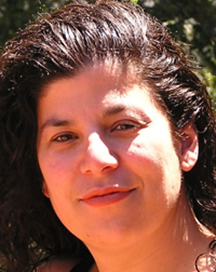
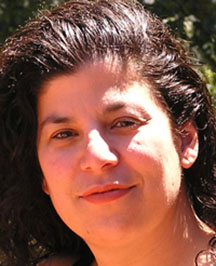
add 'speakers' page with bios

diff --git a/app/assets/stylesheets/_modules.scss b/app/assets/stylesheets/_modules.scss
@@ -119,10 +119,10 @@
    background-size: cover !important; /* Not sure why this needs "!important". */
    border: 2px solid #191919;
 }
-   .speaker-estelle { background: url('../images/speakers/estelle.jpg') center center no-repeat; }
-   .speaker-mike { background: url('../images/speakers/mike.jpg') center center no-repeat; }
-   .speaker-garann { background: url('../images/speakers/garann.jpg') center center no-repeat; }
-   .speaker-christopher { background: url('../images/speakers/christopher.jpg') center center no-repeat; }
+   .speaker-estelle { background: url('../images/speakers/f-estelle.jpg') center center no-repeat; }
+   .speaker-mike { background: url('../images/speakers/f-mike.jpg') center center no-repeat; }
+   .speaker-garann { background: url('../images/speakers/f-garann.jpg') center center no-repeat; }
+   .speaker-christopher { background: url('../images/speakers/f-christopher.jpg') center center no-repeat; }
 
    .speaker .static { display: none; }
    .speaker:hover .static { display: block; }

diff --git a/app/assets/stylesheets/_layouts.scss b/app/assets/stylesheets/_layouts.scss
@@ -55,7 +55,7 @@
 
    li {
       display: inline-block;
-      padding: 0 0 70px;
+      padding: 30px 0 40px;
       vertical-align: top;
       width: 49%;
 
@@ -65,6 +65,13 @@
          article { width: 760px; }
          p { font-size: 16px; }
       }
+
+      &:first-child { padding-top: 0; }
+   }
+
+   img {
+      height: 266px;
+      width: 214px;
    }
 }
 

diff --git a/app/assets/stylesheets/_base.scss b/app/assets/stylesheets/_base.scss
@@ -1,5 +1,6 @@
 * {
    border: 0;
+   -moz-box-sizing: border-box;
    box-sizing: border-box;
    margin: 0;
    padding: 0;
